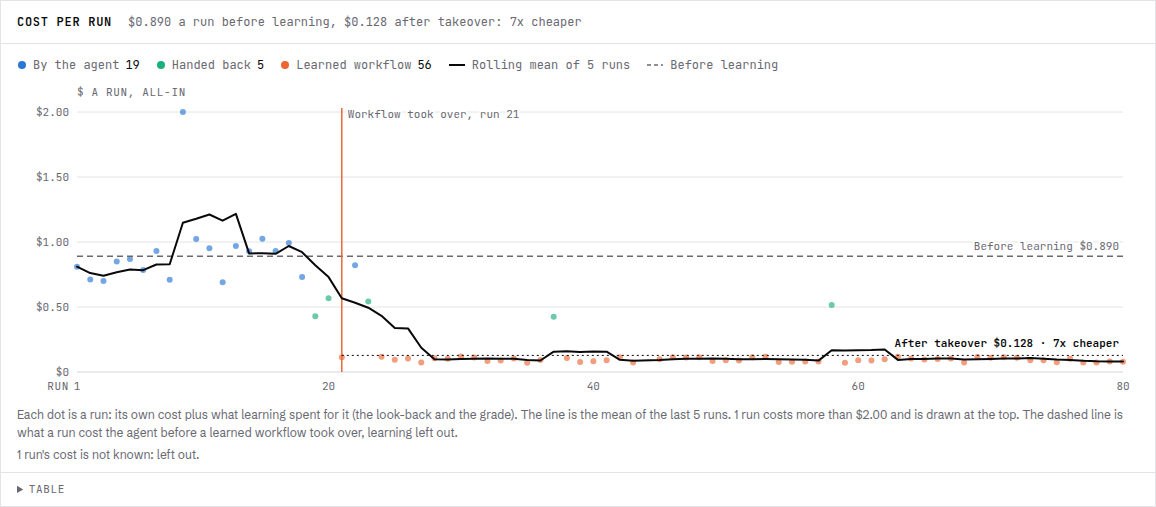
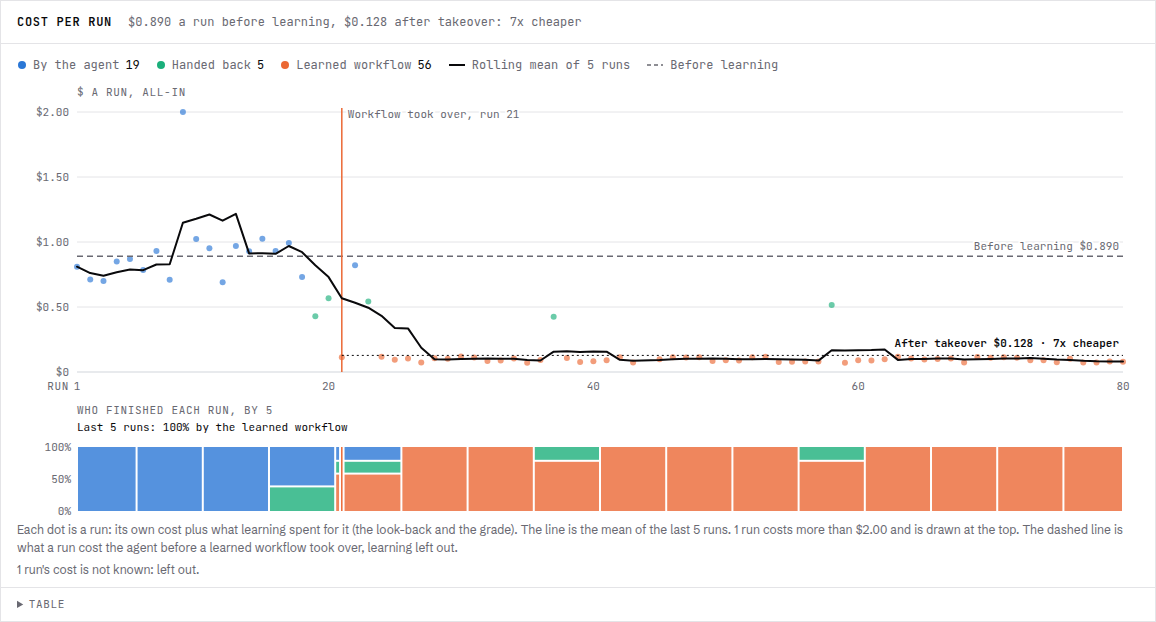
docs: the tutorial's cost chart image with the mix under it

diff --git a/docs/tutorials/learn-then-hand-off.md b/docs/tutorials/learn-then-hand-off.md
@@ -60,7 +60,7 @@ it took (the agent by hand, a learned workflow that handed back, or the workflow
 the agent's cost before learning as a dashed line, a marker at the first run the workflow finished alone, and the
 level after it. Once 20 runs stand behind that level, it says how many times cheaper it is.
 
-![The cost per run chart: about $0.89 a run by hand, a marker where the learned workflow took over at run 21, then about $0.13 a run, 7x cheaper](../assets/tutorials/cost-per-run.png)
+![The cost per run chart: about $0.89 a run by hand, a marker where the learned workflow took over at run 21, then about $0.13 a run, 7x cheaper; under it, who finished each block of 5 runs, the learned workflow's share growing from run 21](../assets/tutorials/cost-per-run.png)
 
 The chart above is an invented agent's runs. `agentrun learning cost <agent> --format csv` writes your agent's series as
 CSV, to plot or check yourself (`GET /v2/agents/{id}/learning/cost` answers it as JSON).
